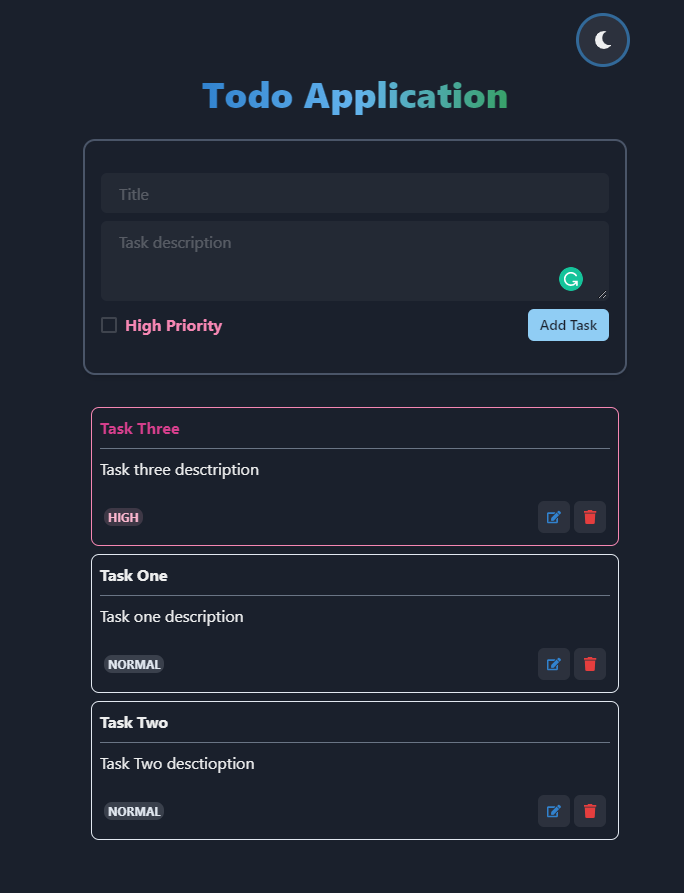
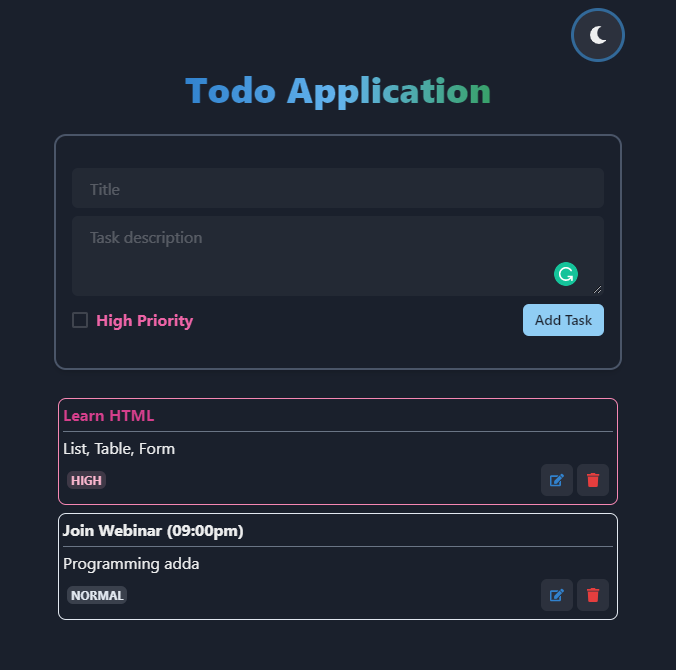
prority sort | use context

diff --git a/src/App.js b/src/App.js
@@ -1,25 +1,23 @@
 import './App.css';
-import { useState, useEffect } from 'react';
-import { VStack, IconButton, Heading, useColorMode, Box } from '@chakra-ui/react';
+import { useState, useEffect, createContext } from 'react';
+import { VStack, IconButton, Heading, useColorMode } from '@chakra-ui/react';
 import { FaCloudSun, FaMoon } from 'react-icons/fa';
 import TodoList from './components/TodoList';
 import AddTodo from './components/AddTodo';
 
-function App() {
-	// const initialTodos = [
-	//   { id: 1, body: "One" },
-	//   { id: 2, body: "Two" },
-	// ];
+export const EditTodo = createContext();
 
+function App() {
 	// chakraui color mode
 	const { colorMode, toggleColorMode } = useColorMode();
 
 	//define todos array and initial data form local storage.
 	const [ todos, setTodos ] = useState(() => JSON.parse(localStorage.getItem('todos')) || []);
+	// edit todo
 	const [ editTodo, setEditTodo ] = useState({});
 
-	// add data to state
-	const addTodo = (todo) => {
+	// Add
+	const handelAddTodo = (todo) => {
 		if (todo.priority) {
 			setTodos([ todo, ...todos ]);
 		} else {
@@ -27,28 +25,24 @@ function App() {
 		}
 	};
 
-	// get data for edit
-	const handelEditTodo = (id) => {
-		let todo = {
-			title: '',
-			detail: '',
-			priority: false
-		};
-
-		setEditTodo(todos.find((todo) => todo.id === id) || todo);
-	};
-
-	// update from state
-	const updateTodo = (data) => {
+	// Update
+	const handelUpdateTodo = (data) => {
 		const index = todos.findIndex((todo) => todo.id === data.id);
-		const newTodos = [ ...todos ];
-		newTodos[index] = data;
-		setTodos(newTodos);
+		const existTodos = [ ...todos ];
 
-		setEditTodo({});
+		//if priority no change
+		if (existTodos[index].priority === data.priority) {
+			existTodos[index] = data; // update
+		} else {
+			existTodos[index] = data; // update
+			existTodos.sort((a, b) => b.priority - a.priority); // high priority first
+		}
+
+		setTodos(existTodos); // update state
+		setEditTodo({}); // reset
 	};
 
-	// remove from state
+	// Remove
 	const handelRemoveTodo = (id) => {
 		const newTodos = todos.filter((todo) => {
 			return todo.id !== id;
@@ -66,7 +60,7 @@ function App() {
 	);
 
 	return (
-		<VStack p={4} mx="auto" maxW={{ base: '90vw', sm: '70vw', lg: '40vw', xl: '30vw' }}>
+		<VStack p={4} mx="auto" maxW={{ base: '90vw', sm: '80vw', md: '70vw', lg: '600px' }}>
 			<IconButton
 				icon={colorMode === 'light' ? <FaCloudSun /> : <FaMoon />}
 				alignSelf="flex-end"
@@ -85,9 +79,11 @@ function App() {
 				Todo Application
 			</Heading>
 
-			<AddTodo addTodo={addTodo} editTodo={editTodo} updateTodo={updateTodo} />
+			<EditTodo.Provider value={[ editTodo, setEditTodo ]}>
+				<AddTodo handelAddTodo={handelAddTodo} handelUpdateTodo={handelUpdateTodo} />
 
-			<TodoList todos={todos} handelEditTodo={handelEditTodo} handelRemoveTodo={handelRemoveTodo} />
+				<TodoList todos={todos} handelRemoveTodo={handelRemoveTodo} />
+			</EditTodo.Provider>
 		</VStack>
 	);
 }

diff --git a/public/index.html b/public/index.html
@@ -2,42 +2,23 @@
 <html lang="en">
   <head>
     <meta charset="utf-8" />
-    <link rel="icon" href="%PUBLIC_URL%/favicon.ico" />
     <meta name="viewport" content="width=device-width, initial-scale=1" />
-    <meta name="theme-color" content="#000000" />
-    <meta
-      name="description"
-      content="Web site created using create-react-app"
-    />
-    <link rel="apple-touch-icon" href="%PUBLIC_URL%/logo192.png" />
-    <!--
-      manifest.json provides metadata used when your web app is installed on a
-      user's mobile device or desktop. See https://developers.google.com/web/fundamentals/web-app-manifest/
-    -->
-    <link rel="manifest" href="%PUBLIC_URL%/manifest.json" />
-    <!--
-      Notice the use of %PUBLIC_URL% in the tags above.
-      It will be replaced with the URL of the `public` folder during the build.
-      Only files inside the `public` folder can be referenced from the HTML.
+    <meta name="author" content="nmsoikat" />
 
-      Unlike "/favicon.ico" or "favicon.ico", "%PUBLIC_URL%/favicon.ico" will
-      work correctly both with client-side routing and a non-root public URL.
-      Learn how to configure a non-root public URL by running `npm run build`.
-    -->
-    <title>React App</title>
+    <link rel="apple-touch-icon" sizes="180x180" href="%PUBLIC_URL%/fav/apple-touch-icon.png">
+    <link rel="icon" type="image/png" sizes="32x32" href="%PUBLIC_URL%/fav/favicon-32x32.png">
+    <link rel="icon" type="image/png" sizes="16x16" href="%PUBLIC_URL%/fav/favicon-16x16.png">
+    <link rel="manifest" href="%PUBLIC_URL%/fav/site.webmanifest">
+    <link rel="mask-icon" href="%PUBLIC_URL%/fav/safari-pinned-tab.svg" color="#5bbad5">
+    <meta name="msapplication-TileColor" content="#da532c">
+    <meta name="theme-color" content="#ffffff">
+
+    <meta name="keyword" content="todo, react, chakra-ui"/>
+    <meta name="description" content="todo application using react chakra-ui" />
+    <title>Todo Application --Nur</title>
   </head>
   <body>
     <noscript>You need to enable JavaScript to run this app.</noscript>
     <div id="root"></div>
-    <!--
-      This HTML file is a template.
-      If you open it directly in the browser, you will see an empty page.
-
-      You can add webfonts, meta tags, or analytics to this file.
-      The build step will place the bundled scripts into the <body> tag.
-
-      To begin the development, run `npm start` or `yarn start`.
-      To create a production bundle, use `npm run build` or `yarn build`.
-    -->
   </body>
 </html>

diff --git a/src/components/TodoList.js b/src/components/TodoList.js
@@ -1,37 +1,37 @@
-import React from 'react';
-import {
-	VStack,
-	HStack,
-	Stack,
-	Text,
-	IconButton,
-	StackDivider,
-	Spacer,
-	Badge,
-	useColorMode,
-	Divider,
-	Box
-} from '@chakra-ui/react';
+import { VStack, HStack, Stack, Text, IconButton, Badge, Divider } from '@chakra-ui/react';
 import { FaTrash, FaEdit } from 'react-icons/fa';
+import { useContext } from 'react';
+import { EditTodo } from '../App';
 
-function TodoList({ todos, handelRemoveTodo, handelEditTodo }) {
-	const { colorMode } = useColorMode();
+function TodoList({ todos, handelRemoveTodo }) {
+	const [ editTodo, setEditTodo ] = useContext(EditTodo); // global state
+
+	// get data for edit
+	const handelEditTodo = (id) => {
+		let todo = {
+			title: '',
+			detail: '',
+			priority: false
+		};
+
+		setEditTodo(todos.find((todo) => todo.id === id) || todo);
+	};
 
 	if (!todos.length) {
 		return (
 			<Badge p="4" colorScheme="green" borderRadius="lg">
-				Nothing to do !!
+				Nothing to do!!
 			</Badge>
 		);
 	}
 
 	return (
-		<VStack p="2" w="100%" alignItems="stretch">
+		<VStack p="1" w="100%" alignItems="stretch">
 			{todos.map(function(todo) {
 				return (
 					<Stack
 						key={todo.id}
-						p="2"
+						p="1"
 						borderRadius="lg"
 						border="1px"
 						borderColor={todo.priority ? 'pink.300' : 'gray.200'}
@@ -44,11 +44,17 @@ function TodoList({ todos, handelRemoveTodo, handelEditTodo }) {
 						>
 							{todo.title}
 						</Text>
-						<Divider borderColor="gray.400" />
-						<Text>{todo.detail}</Text>
-						<Spacer />
-						<HStack textAlign="right" borderRadius="lg" padding="1" w="100%" justifyContent="space-between">
-							<Badge colorScheme={todo.priority ? 'pink' : 'gray'} borderRadius="lg">
+						<Divider marginTop="4px !important" borderColor="gray.400" />
+						<Text marginTop="4px !important">{todo.detail}</Text>
+						<HStack
+							marginTop="0px !important"
+							textAlign="right"
+							borderRadius="lg"
+							padding="1"
+							w="100%"
+							justifyContent="space-between"
+						>
+							<Badge colorScheme={todo.priority ? 'pink' : 'gray'} px="1" borderRadius="md">
 								{todo.priority ? 'High' : 'Normal'}
 							</Badge>
 							<HStack spacing="1">

diff --git a/src/components/AddTodo.js b/src/components/AddTodo.js
@@ -1,32 +1,22 @@
-import {
-	VStack,
-	HStack,
-	Input,
-	Button,
-	useToast,
-	Textarea,
-	Box,
-	useColorMode,
-	Checkbox,
-	Spacer,
-	Flex
-} from '@chakra-ui/react';
-import React, { useEffect } from 'react';
-import { useState } from 'react/cjs/react.development';
+import { VStack, HStack, Input, Button, useToast, Textarea, Box, useColorMode, Checkbox } from '@chakra-ui/react';
+import { useContext, useEffect, useState } from 'react';
 import { nanoid } from 'nanoid';
+import { EditTodo } from '../App';
 
-function AddTodo({ addTodo, editTodo, updateTodo }) {
-	//chakraUI color mode
-	const { colorMode } = useColorMode();
-
-	// chakraUI tost
-	const toast = useToast();
+function AddTodo({ handelAddTodo, handelUpdateTodo }) {
+	// global state
+	const [ editTodo, setEditTodo ] = useContext(EditTodo);
 
 	// all state
 	const [ title, setTitle ] = useState();
 	const [ detail, setDetail ] = useState();
 	const [ priority, setPriority ] = useState();
 
+	//chakra ui
+	const { colorMode } = useColorMode();
+	const toast = useToast();
+
+	// edit data
 	useEffect(
 		() => {
 			setTitle(editTodo.title);
@@ -36,7 +26,6 @@ function AddTodo({ addTodo, editTodo, updateTodo }) {
 		[ editTodo ]
 	);
 
-	// console.log(title, detail, priority);
 	// Form submit
 	const onSubmit = (e) => {
 		e.preventDefault();
@@ -62,13 +51,12 @@ function AddTodo({ addTodo, editTodo, updateTodo }) {
 			priority
 		};
 
+		// add or update
 		if (!Object.keys(editTodo).length) {
-			addTodo(todo);
+			handelAddTodo(todo);
 		} else {
-			updateTodo(todo);
+			handelUpdateTodo(todo);
 		}
-
-		// console.log(todo);
 
 		// reset
 		setTitle('');
@@ -103,7 +91,7 @@ function AddTodo({ addTodo, editTodo, updateTodo }) {
 					/>
 					<HStack w="100%" justifyContent="space-between">
 						<Checkbox
-							color="pink.300"
+							color="pink.400"
 							colorScheme="pink"
 							fontWeight="bold"
 							isChecked={priority || false}

diff --git a/README.md b/README.md
@@ -13,23 +13,26 @@ npm start
 ### Features:
 
 - Add task.
+- Add with priority.
+- Sort with priority.
 - Remove task.
-- Show toast message if user try to add empty value.
+- Edit and update.
+- Show toast message if user try to add empty title.
 - Show message if there have not any task to do.
 - Local Storage.
 - Dark Mode.
-- Responsive
+- Responsive.
 
 ### Screenshot:
 
-if all task are done <br/>
+All task are done! <br/>
 ![Nothing to do](./screenshot-1.png)
 
-add task <br/>
+Add task. <br/>
 ![add task](./screenshot-2.png)
 
-dark mode <br/>
+Dark mode! <br/>
 ![dark mode](./screenshot-3.png)
 
-if try to add empty value <br/>
-![if try to add empty value](./screenshot-4.png)
+Edit and update task. <br/>
+![update](./screenshot-4.png)
